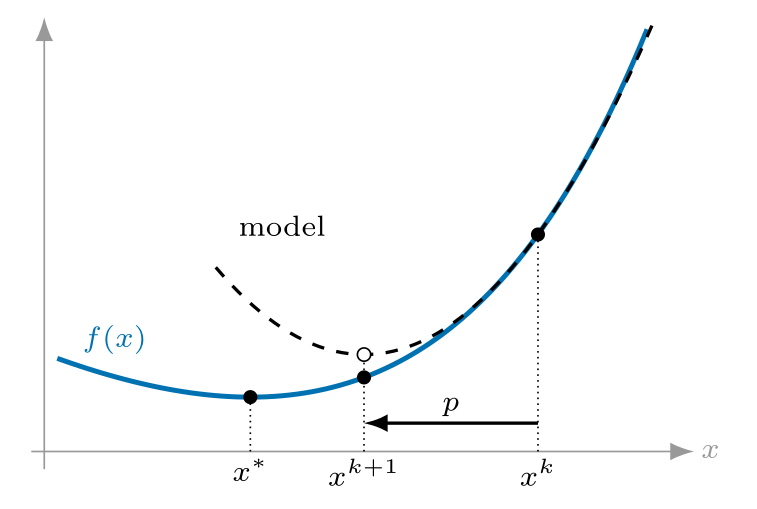
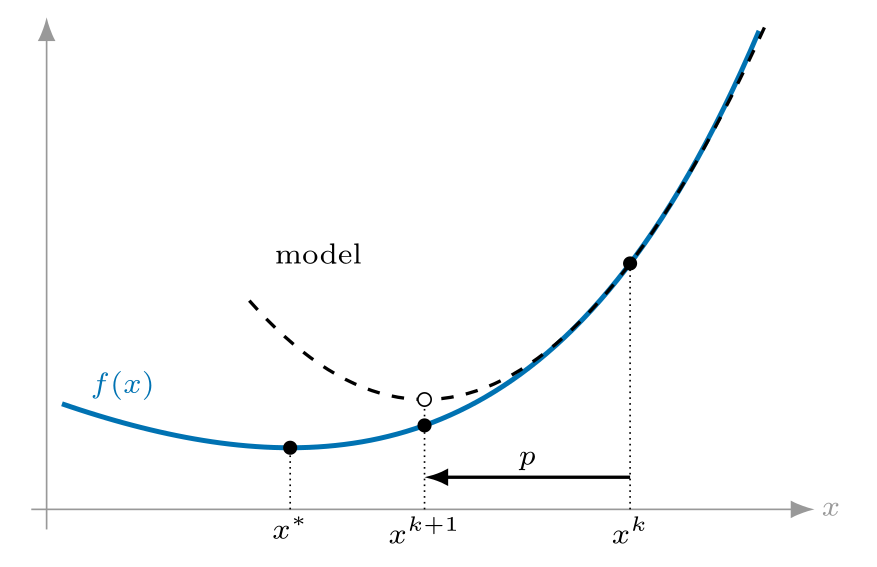
nu-newton-tangent, nu-quadratic-model: larger scale for the L15 side figures; tangent and x^{k+1} / x* labels no longer collide; check_greyscale PASS

diff --git a/figures/tikz/nu-newton-tangent.tex b/figures/tikz/nu-newton-tangent.tex
@@ -5,7 +5,7 @@
 %
 % Lecture 15 (Newton Methods for Unconstrained Optimization), Section IV.A.
 %
-% GEOMETRY (x: 1 unit = 2.3 cm, y: 1 unit = 1.0 cm). f(x) = x^2/2 - 1, f'(x) = x,
+% GEOMETRY (x: 1 unit = 2.9 cm, y: 1 unit = 1.25 cm). f(x) = x^2/2 - 1, f'(x) = x,
 % root x* = sqrt(2) = 1.4142. Newton from x^k = 2.6:
 %   f(2.6) = 2.38,             tangent zero x^{k+1} = 2.6 - 2.38/2.6 = 1.6846
 %   f(1.6846) = 0.4190,        tangent zero x^{k+2} = 1.6846 - 0.4190/1.6846 = 1.4359
@@ -16,7 +16,7 @@
 \definecolor{okabeblue}{HTML}{0072B2}
 
 \begin{tikzpicture}[
-    x=2.3cm, y=1.0cm,
+    x=2.9cm, y=1.25cm,
     >={Latex[length=2.0mm]},
     font=\small,
     lab/.style={font=\scriptsize, inner sep=1.5pt},
@@ -27,7 +27,7 @@
   \draw[okabeblue, line width=1.2pt, domain=1.0:2.72, samples=60, variable=\t]
     plot ({\t},{\t*\t/2-1});
   % tangent at x^k = 2.6: y = 2.38 + 2.6 (x - 2.6), zero at 1.6846
-  \draw[thick] (1.62,-0.1636) -- (2.72,2.692);
+  \draw[thick] (1.62,-0.1636) -- node[pos=0.3, below right, lab] {tangent at $x^{k}$} (2.72,2.692);
   % tangent at x^{k+1} = 1.6846: y = 0.4190 + 1.6846 (x - 1.6846), zero at 1.4359
   \draw[thick, dashed] (1.38,-0.0941) -- (1.84,0.6807);
   % vertical guides from the axis to the curve
@@ -40,9 +40,8 @@
   \filldraw[fill=white] (1.4359,0) circle (1.4pt);
   \filldraw (1.4142,0) circle (1.2pt);
   \node[lab, below] at (2.6,0) {$x^{k}$};
-  \node[lab, below] at (1.70,-0.02) {$x^{k+1}$};
+  \node[lab, below right] at (1.69,-0.01) {$x^{k+1}$};
   \node[lab, above left] at (1.44,0.02) {$x^{k+2}$};
-  \node[lab, below left] at (1.40,-0.05) {$x^{*}$};
-  \node[lab, anchor=west] at (2.05,0.75) {tangent at $x^{k}$};
+  \draw[black!60, line width=0.4pt] (1.4142,-0.04) -- (1.30,-0.42) node[below, lab] {$x^{*}$};
   \node[lab, okabeblue, anchor=east] at (2.15,1.95) {$f(x)$};
 \end{tikzpicture}

diff --git a/figures/tikz/nu-quadratic-model.tex b/figures/tikz/nu-quadratic-model.tex
@@ -6,7 +6,7 @@
 %
 % Lecture 15 (Newton Methods for Unconstrained Optimization), Section IV.B.
 %
-% GEOMETRY (x: 1 unit = 2.2 cm, y: 1 unit = 0.75 cm). f(x) = e^x - 2x,
+% GEOMETRY (x: 1 unit = 2.6 cm, y: 1 unit = 0.85 cm). f(x) = e^x - 2x,
 % f' = e^x - 2, f'' = e^x, minimizer x* = ln 2 = 0.6931, f(x*) = 0.6137.
 % At x^k = 1.8: f = 2.4496, f' = 4.0496, f'' = 6.0496.
 % Model m(x) = 2.4496 + 4.0496 (x - 1.8) + 3.0248 (x - 1.8)^2.
@@ -19,7 +19,7 @@
 \definecolor{okabeblue}{HTML}{0072B2}
 
 \begin{tikzpicture}[
-    x=2.2cm, y=0.75cm,
+    x=2.6cm, y=0.85cm,
     >={Latex[length=2.0mm]},
     font=\small,
     lab/.style={font=\scriptsize, inner sep=1.5pt},
